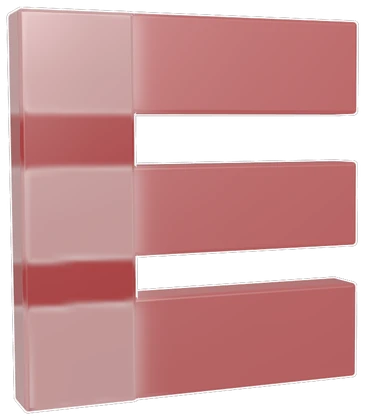
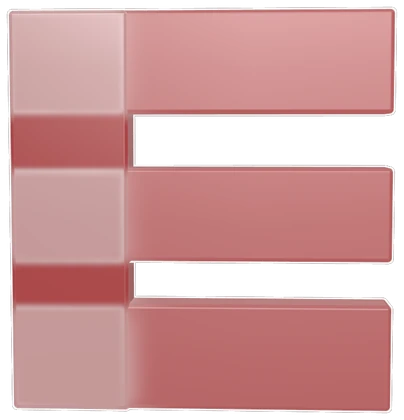
Show the hero E straight on
Recaptured the 3D model's frame fully front-facing instead of at a
three-quarter turn. Same height in the hub (85px), now 12KB.

diff --git a/src/components/shared/SpiderwebNetwork.tsx b/src/components/shared/SpiderwebNetwork.tsx
@@ -4,9 +4,9 @@ import { DollarSign, Layers3, Palette, PhoneCall, TrendingUp } from "lucide-reac
 import spiderweb from "@/assets/spiderweb.svg";
 import spiderwebLight from "@/assets/spiderweb-light.svg";
 // A single frame of the real 3D model (the Three.js scene that used to spin
-// here live), captured at a three-quarter turn with a transparent background.
-// It keeps the depth and glass highlight of the live render at none of the
-// cost: 17KB, painted once. 365x420.
+// here live), captured straight on with a transparent background. It keeps the
+// glass material and highlight of the live render at none of the cost: 12KB,
+// painted once. 404x420.
 import emblemHero from "@/assets/emblem-hero-3d.webp";
 import { usePauseOffscreen } from "@/hooks/usePauseOffscreen";
 
@@ -149,9 +149,8 @@ function useIsSmall() {
  * on screen, and a long tail of bugs: white flashes, clipped edges, halos,
  * moire, and a flat grey render on phones.
  *
- * It is now one frame of that same 3D model, captured at a three-quarter turn
- * so the extrusion and glass highlight read: the depth and size of the live
- * render, painted once, on every device. The letter is drawn at 1.35x the
+ * It is now one frame of that same 3D model, captured straight on: the glass
+ * and size of the live render, painted once, on every device. The letter is drawn at 1.35x the
  * hub box, which is how large the live render appeared (its scene was
  * oversized into the box to crop its halo); the flat artwork at 1x read as
  * small and sticker-like by comparison. */
@@ -175,7 +174,7 @@ function GlassEmblem({ theme }: { theme: string }) {
         src={emblemHero}
         alt=""
         aria-hidden="true"
-        width={365}
+        width={404}
         height={420}
         draggable={false}
         decoding="async"
